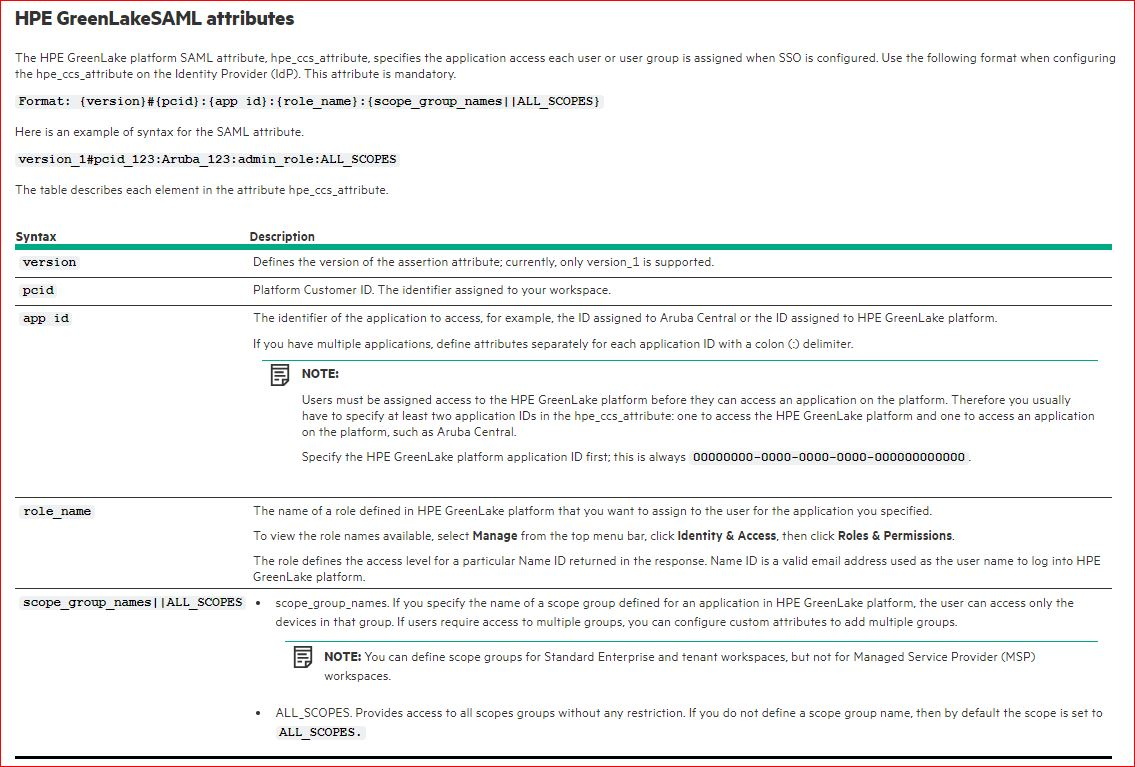
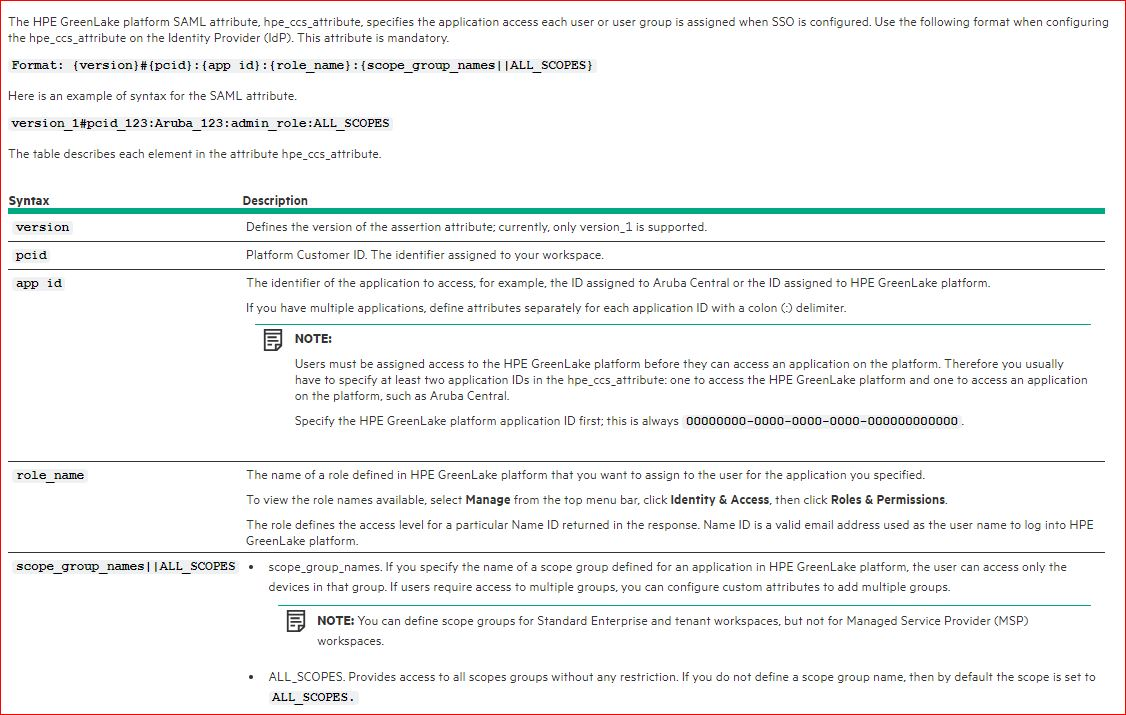
Update Blog “configuring-sso-for-hpe-greenlake-central-private-cloud-enterprise-and-hpe-greenlake-glcp-using-okta”

Changed region(s): [[0.0, 0.0, 1.0, 1.0], [0.0, 0.6462, 0.0933, 0.6769]]

diff --git a/content/blog/configuring-sso-for-hpe-greenlake-central-private-cloud-enterprise-and-hpe-greenlake-glcp-using-okta.md b/content/blog/configuring-sso-for-hpe-greenlake-central-private-cloud-enterprise-and-hpe-greenlake-glcp-using-okta.md
@@ -73,9 +73,9 @@ Provide a name for the SAML application which gets connected to the HPE GreenLak
 
    Format: {version}#{pcid}:{app id}:{role_name}:{ALL_SCOPES}
 
-   Note :  At present HPE GreenLake Private Cloud Enterprise application role should be excluded
+   Note :  At present HPE GreenLake Private Cloud Enterprise application role should be excluded.
 
-![](/img/saml_app-okta2.jpg)
+![](/img/hpe-greenlake-saml-attributes.jpg)
 
 ![](/img/workspace-pcid.jpg)
 
@@ -113,7 +113,9 @@ Click Next and Select “Internal App”, then Finish.
 
 **Steps to be followed in HPE GreenLake edge-to-cloud platform**
 
-    **Step 4: Create SAML Authorization Profile in HPE GreenLake edge-to-cloud platform**
+```
+**Step 4: Create SAML Authorization Profile in HPE GreenLake edge-to-cloud platform**
+```
 
 1. Log into HPE GreenLake edge-to-cloud platform and click Menu > Manage > Authentication and Click Set Up SAML Connection.
 
@@ -156,7 +158,5 @@ Enter the SSO credentials. You will be redirected to Okta to authenticate. Once 
 * For more troubleshooting: <https://support.hpe.com/hpesc/public/docDisplay?docId=a00120892en_us>
 * Customer users should be given access to SAML application.
 * After authentication when clicking the HPE GreenLake edge-to-cloud platform for Private Cloud Enterprise application**,** if it leads to the below error, it will take 1 hr to sync. If it does not do so within that time period, the customer should contact their HPE administrator. 
-
-
 
 I hope this blog post answers any questions you may have had in regards to how to configure single sign-on for HPE GreenLake Private Cloud Enterprise on the HPE GreenLake edge-to-cloud platform using Okta Active Directory. Please return back to the [HPE Developer blog](https://developer.hpe.com/blog) for more tips and tricks on working with the HPE GreenLake edge-to-cloud platform. If you have any further questions, please feel free to reach out to us via the #glc-support Slack channel.
